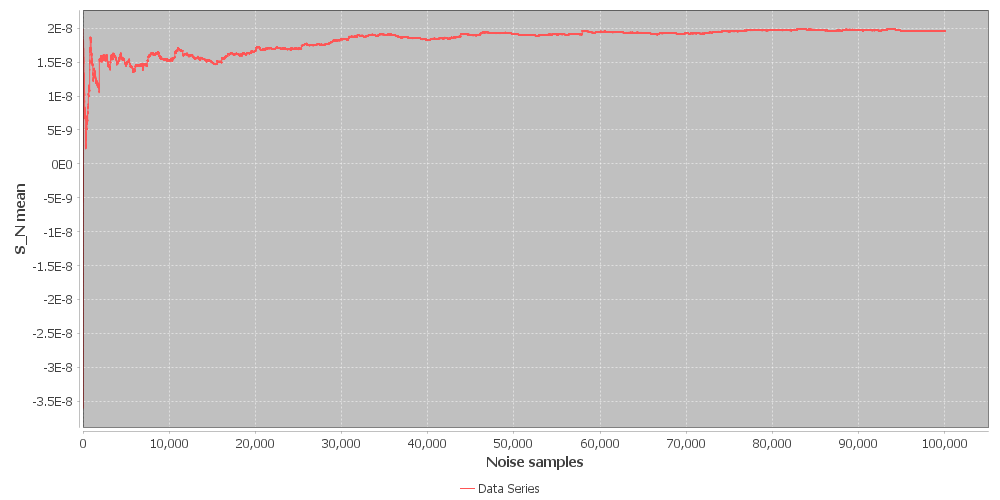
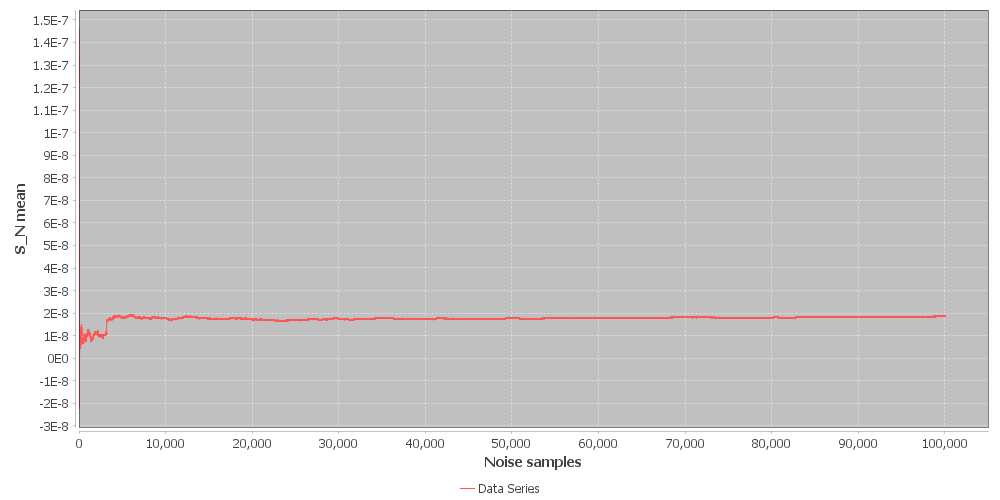
double no stopping criterion

diff --git a/NBLSolver.java b/NBLSolver.java
@@ -2,7 +2,6 @@ import java.io.BufferedReader;
 import java.io.File;
 import java.io.FileReader;
 import java.io.IOException;
-import java.math.BigDecimal;
 import java.math.RoundingMode;
 import java.util.ArrayList;
 import java.util.HashMap;
@@ -13,7 +12,7 @@ public class NBLSolver {
    private int numVariables;
    private int numClauses;
    private List<Clause> instanceSAT;
-   private HashMap<Integer, List<BigDecimal>> noisesByClause;
+   private HashMap<Integer, List<Double>> noisesByClause;
    private Random random;
    private String fileName;
 
@@ -55,24 +54,24 @@ public class NBLSolver {
 
    //-- NOISE SOURCE --
 
-   private BigDecimal noiseSource() {
-      return new BigDecimal(random.nextDouble() * 1 - 0.5);
+   private double noiseSource() {
+      return random.nextDouble() * 1 - 0.5;
    }
 
    //-- TAU --
 
-   private BigDecimal constructHyperspace() {
+   private double constructHyperspace() {
       noisesByClause = new HashMap<>(numClauses + 1, 1.0f);
-      BigDecimal result = BigDecimal.ONE;
+      double result = 1.0;
       for (int i = 1; i <= numVariables; i++) {
-         BigDecimal product1 = BigDecimal.ONE;
-         BigDecimal product2 = BigDecimal.ONE;
+         double product1 = 1.0;
+         double product2 = 1.0;
          for (int j = 1; j <= numClauses; j++) {
             // Generate noise source for 2 literals of variable x in clause c
-            BigDecimal positive = noiseSource();
-            BigDecimal negative = noiseSource();
+            double positive = noiseSource();
+            double negative = noiseSource();
             // Group the noise source by clause index
-            List<BigDecimal> tempList1 = noisesByClause.get(j);
+            List<Double> tempList1 = noisesByClause.get(j);
             if (tempList1 == null) {
                tempList1 = new ArrayList<>();
                noisesByClause.put(j, tempList1);
@@ -80,46 +79,46 @@ public class NBLSolver {
             tempList1.add(positive);
             tempList1.add(negative);
             
-            product1 = product1.multiply(positive);
-            product2 = product2.multiply(negative);
+            product1 *= positive;
+            product2 *= negative;
          }
-         result = result.multiply(product1.add(product2));
+         result *= (product1 + product2);
       }
       return result;
    }
 
    //-- SIGMA --
 
-   private BigDecimal constructInstanceNBL() {
-      BigDecimal result = BigDecimal.ONE;
+   private double constructInstanceNBL() {
+      double result = 1.0;
       for (Clause clause : instanceSAT) {
-         BigDecimal sum = BigDecimal.ZERO;
+         double sum = 0.0;
          for (int literal : clause.getLiterals()) {
-            sum = sum.add(cube(clause.getIndex(), literal));
+            sum += cube(clause.getIndex(), literal);
          }
-         result = result.multiply(sum);
+         result *= sum;
       }
       return result;
    }
 
-   private BigDecimal cube(int clause, int literal) {
-      List<BigDecimal> tempList = noisesByClause.get(clause);
-      BigDecimal result = BigDecimal.ONE;
+   private double cube(int clause, int literal) {
+      List<Double> tempList = noisesByClause.get(clause);
+      double result = 1.0;
       // Noise sources of each clause are listed by the order:
       // [x1, -x1, x2, -x2, ...]
       for (int i = 0; i < numVariables; i++) {
          if (literal < 0 && i + 1 == Math.abs(literal)) {
-            BigDecimal noise = tempList.get(i * 2 + 1);
-            result = result.multiply(noise);
+            double noise = tempList.get(i * 2 + 1);
+            result *= noise;
             continue;
          } else if (literal > 0 && i + 1 == literal) {
-            BigDecimal noise = tempList.get(i * 2);
-            result = result.multiply(noise);
+            double noise = tempList.get(i * 2);
+            result *= noise;
             continue;
          }
-         BigDecimal positive = tempList.get(i * 2);
-         BigDecimal negative = tempList.get(i * 2 + 1);
-         result = result.multiply(positive.add(negative));
+         double positive = tempList.get(i * 2);
+         double negative = tempList.get(i * 2 + 1);
+         result *= (positive + negative);
       }
       return result;
    }
@@ -128,19 +127,18 @@ public class NBLSolver {
 
    public boolean check() {
       boolean satifiability = true;
-      BigDecimal S_N = BigDecimal.ZERO;
-      List<BigDecimal> meanList = new ArrayList<>();
+      double S_N = 0.0;
+      List<Double> meanList = new ArrayList<>();
 
       int totalSample = 1000000;
       int step = 10;
 
       for (int i = 1; i <= totalSample; i++) {
          random = new Random();
-         BigDecimal tau = constructHyperspace();
-         BigDecimal sigma = constructInstanceNBL();
-         S_N = S_N.add(tau.multiply(sigma));
-         BigDecimal sample = new BigDecimal(i);
-         BigDecimal mean = S_N.divide(sample, RoundingMode.HALF_UP);
+         double tau = constructHyperspace();
+         double sigma = constructInstanceNBL();
+         S_N += (tau * sigma);
+         double mean = S_N / i;
          if (i % step == 0) {
             meanList.add(mean);
          }

diff --git a/Chart.java b/Chart.java
@@ -1,7 +1,6 @@
 import java.awt.Color;
 import java.io.File;
 import java.io.IOException;
-import java.math.BigDecimal;
 import java.util.List;
 
 import org.jfree.chart.ChartFactory;
@@ -12,13 +11,13 @@ import org.jfree.data.xy.XYSeries;
 import org.jfree.data.xy.XYSeriesCollection;
 
 public class Chart {
-   private final List<BigDecimal> meanList;
+   private final List<Double> meanList;
    private final String fileName;
    private XYSeries series;
    private XYSeriesCollection dataset;
    private JFreeChart chart;
 
-   public Chart(List<BigDecimal> meanList, String fileName) {
+   public Chart(List<Double> meanList, String fileName) {
       this.meanList = meanList;
       this.fileName = fileName;
       series = new XYSeries("Data Series");
@@ -26,7 +25,7 @@ public class Chart {
    }
    
    private void draw() {
-      for (BigDecimal mean_value : meanList) {
+      for (double mean_value : meanList) {
          series.add(meanList.indexOf(mean_value), mean_value);
       }
       dataset = new XYSeriesCollection(series);
